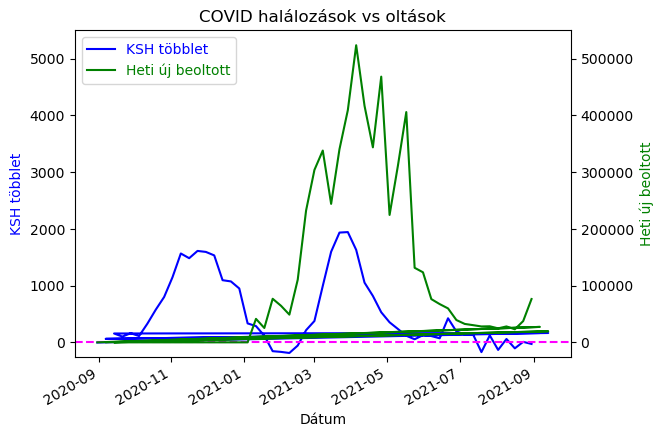
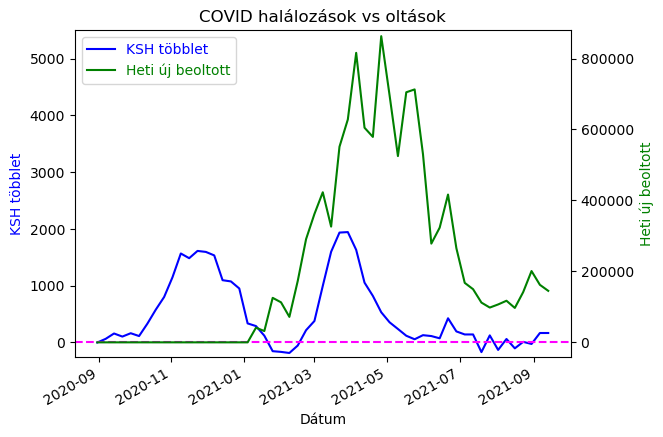
Adatok javítása

diff --git a/kép_ksh_halálozás_vs_oltás.py b/kép_ksh_halálozás_vs_oltás.py
@@ -23,13 +23,14 @@ dfatlag = df[df['A hét záró napja'] < "2020-01-01"]
 dfatlag = dfatlag.groupby('A hét sorszáma').mean().reset_index()
 atlag_elhunytak = dfatlag[['A hét sorszáma', 'Összesen összesen']].rename(columns = {'Összesen összesen': 'KSH 5 éves átlag'}, inplace = False)
 
-dfkozos = pd.merge(covid_elhunytak, atlag_elhunytak, left_on = 'A hét sorszáma', right_on = 'A hét sorszáma')
+dfkozos = pd.merge(covid_elhunytak, atlag_elhunytak, left_on = 'A hét sorszáma', right_on = 'A hét sorszáma', how = 'left')
 dfkozos = dfkozos.rename(columns = {'A hét kező napja': 'Dátum'}, inplace = False)
 dfkozos['KSH többlet']=dfkozos['Elhunytak'] - dfkozos['KSH 5 éves átlag']
 
 df = pd.read_csv(BASEDIR +"/adatok/hiradatok.csv", parse_dates=['Dátum'])
 df['Dátum'] = df.apply(lambda row: row['Dátum'] - dt.timedelta(days=row['Dátum'].weekday()), axis=1)
 dfheti = (df.groupby('Dátum', as_index=False).sum())
+dfheti['Napi új beoltott'] = dfheti['Napi új beoltott'] + dfheti['Napi új másodszor oltott'] + dfheti['Napi új harmadszor oltott']
 
 dfheti = dfheti.rename(columns = {'Napi új beoltott': 'Heti új beoltott'}, inplace = False)
 dfheti = dfheti[(dfheti['Dátum'] <= maxdate) & (dfheti['Dátum'] > "2020-08-30")]
@@ -47,7 +48,7 @@ host.set_title("COVID halálozások vs oltások")
 host.set_ylabel("KSH többlet")
 host.set_ylim([-250, 5500])
 par.set_ylabel("Heti új beoltott")
-par.set_ylim([-25000, 550000])
+par.set_ylim([-40000, 880000])
 
 p1, = host.plot(dfkozos['Dátum'], dfkozos['KSH többlet'], label="KSH többlet", color='blue')
 p2, = par.plot(dfkozos['Dátum'], dfkozos['Heti új beoltott'], label="Heti új beoltott", color='green')
